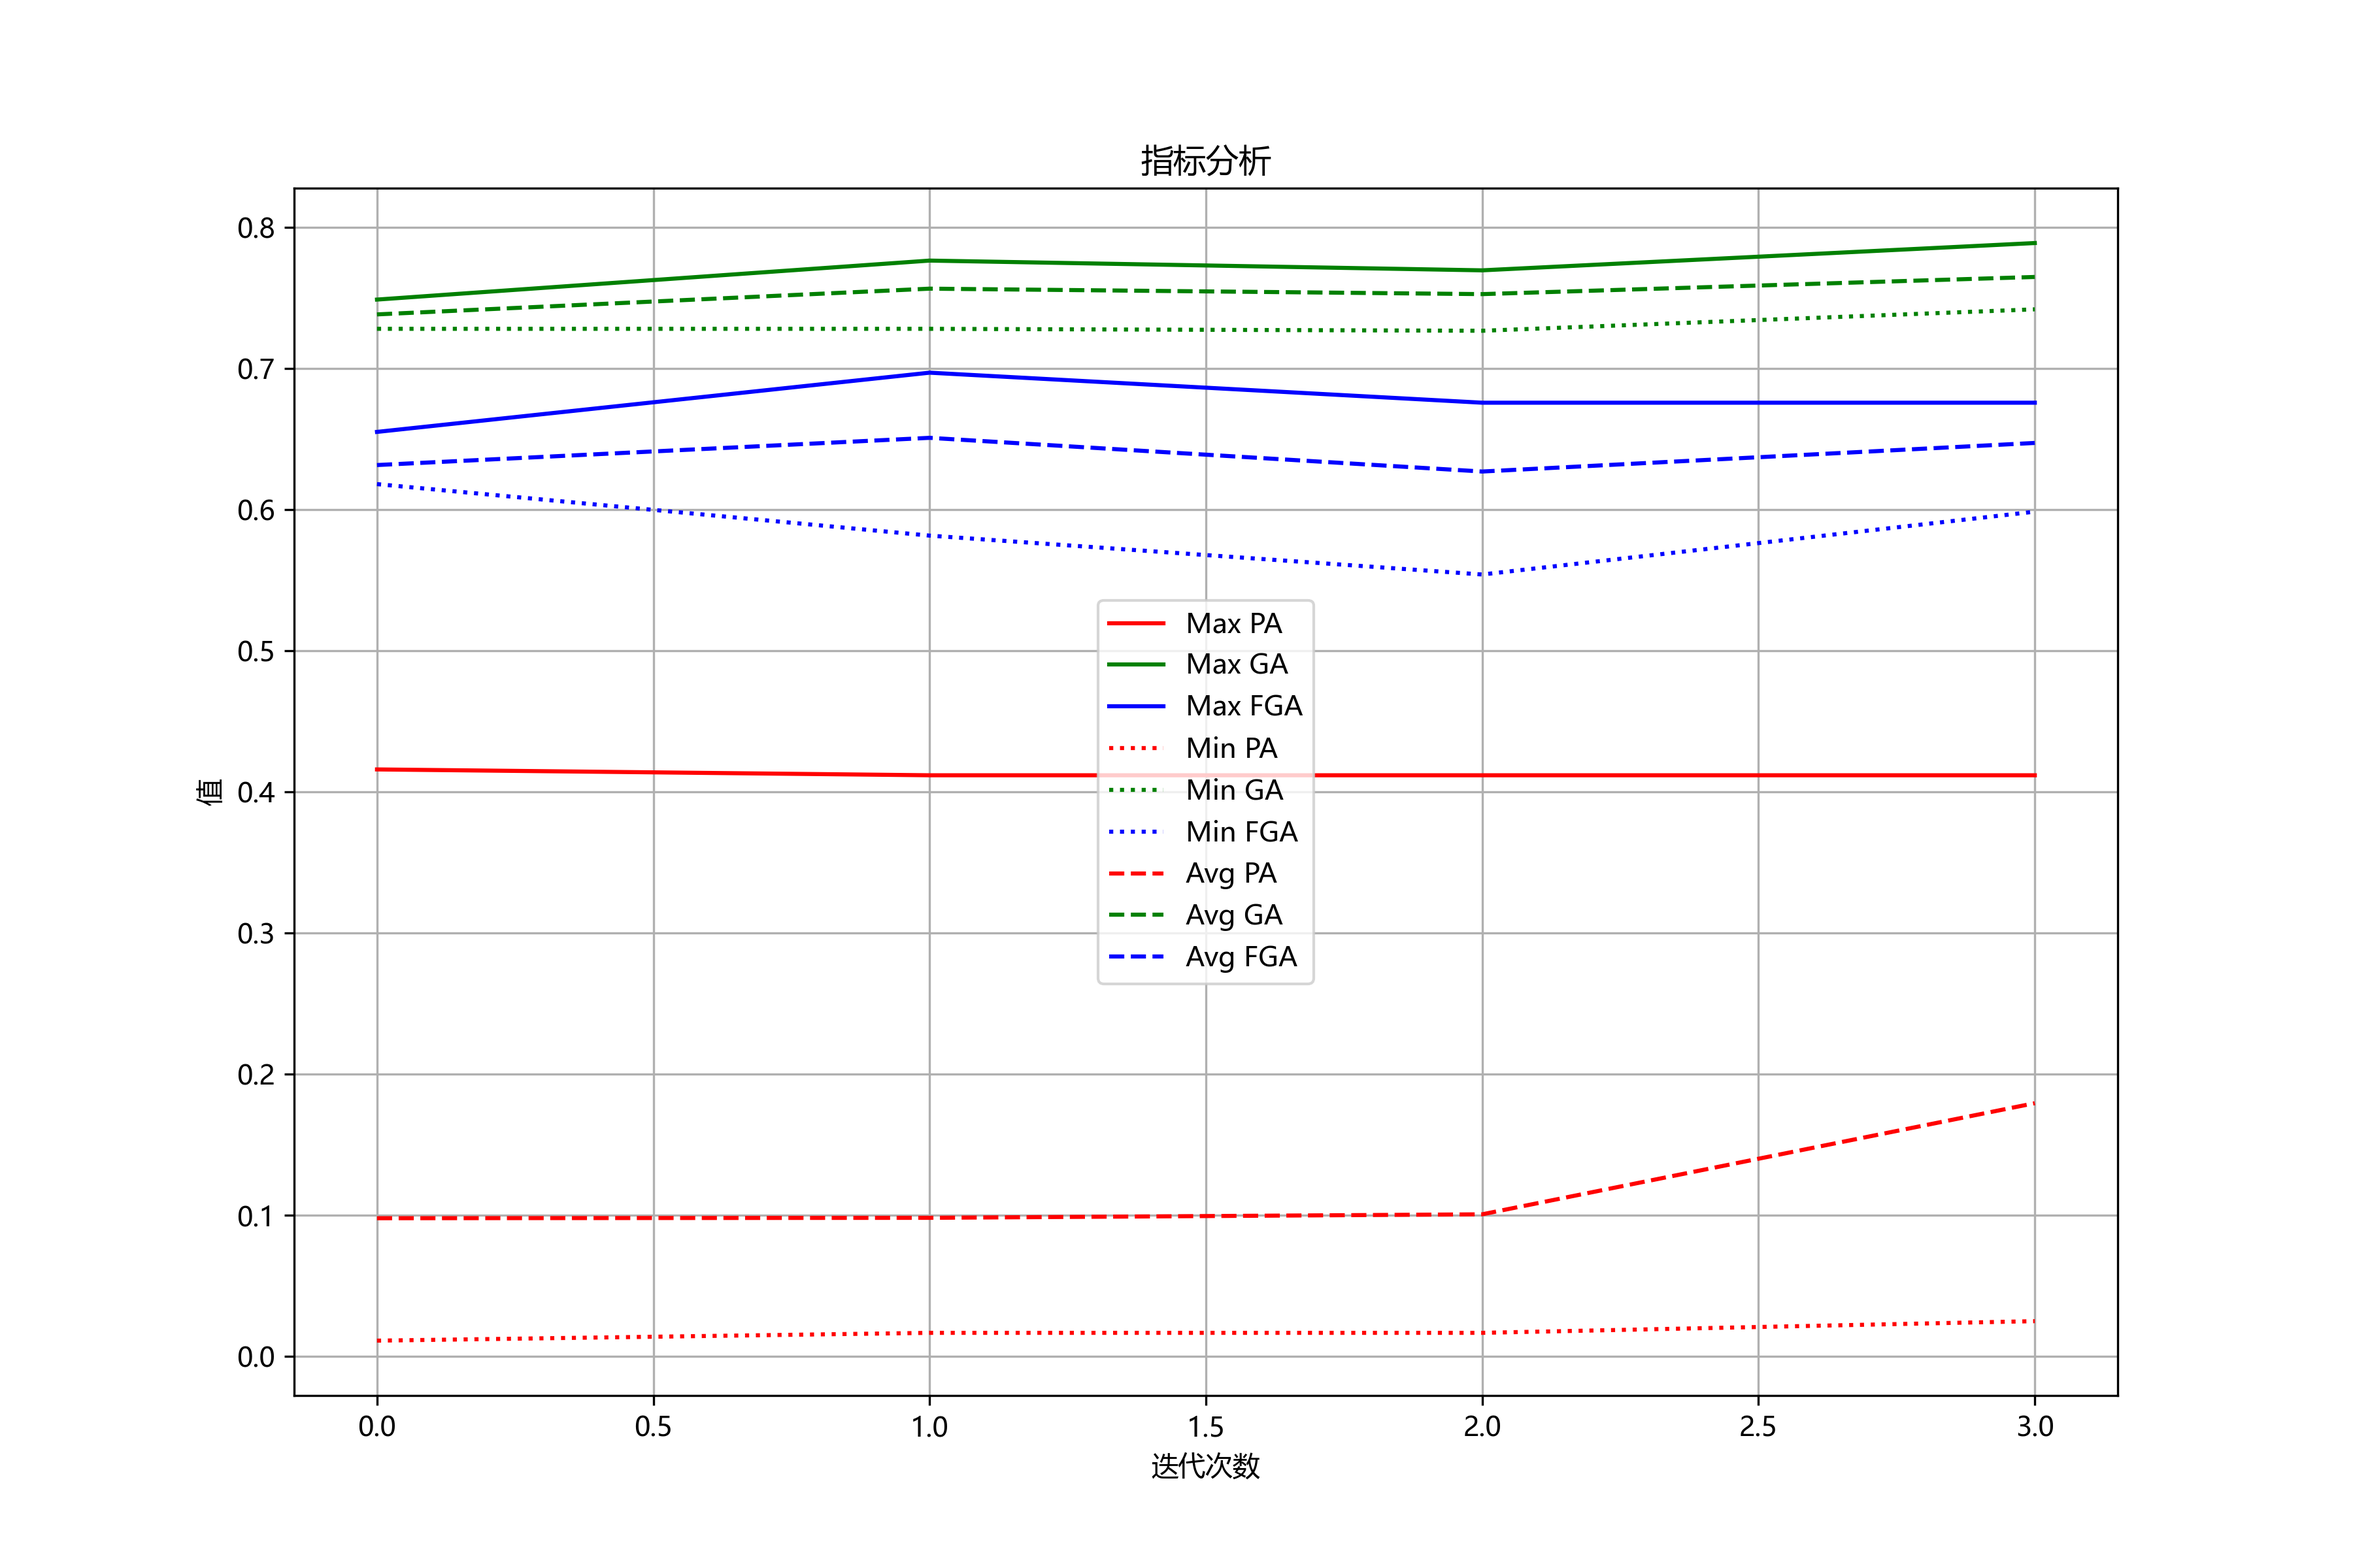
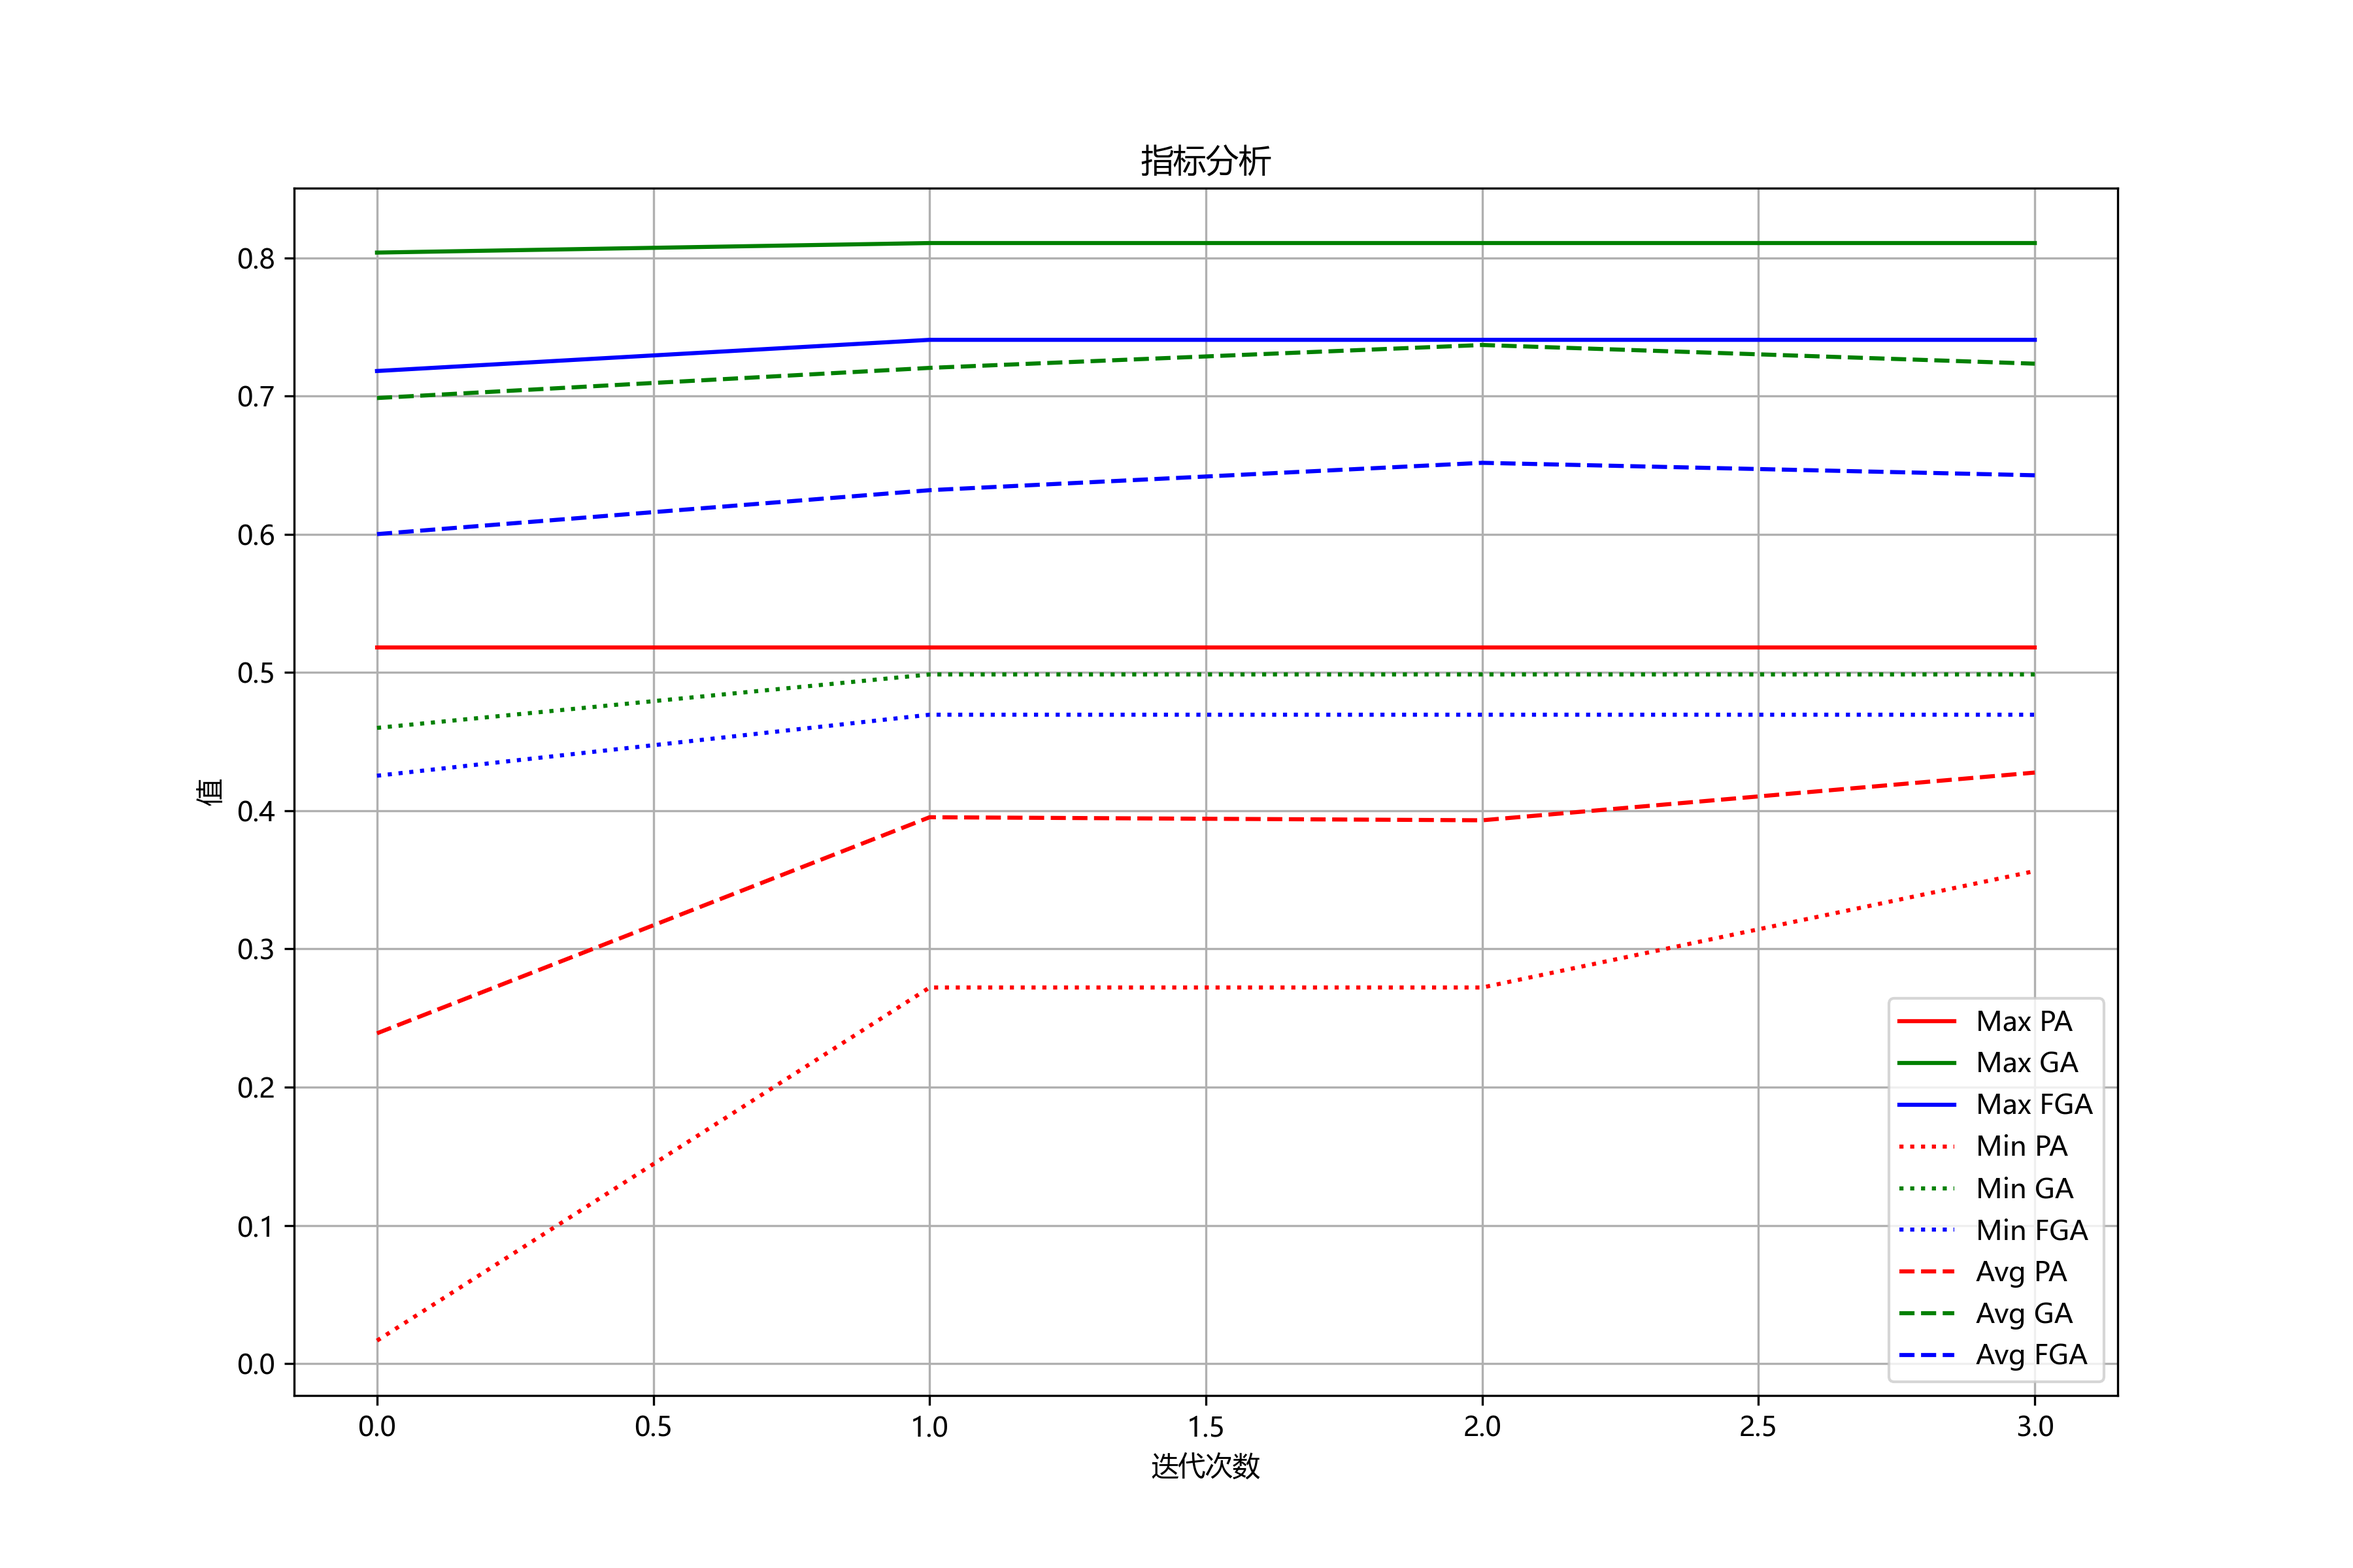
opro结果

diff --git a/src/LogModule/AutoPrompt/promptBranch/SamanticPrompts.py b/src/LogModule/AutoPrompt/promptBranch/SamanticPrompts.py
@@ -7,18 +7,26 @@ from src.LogModule.AutoPrompt.promptBranch.wrongReason import batchProcess
 from src.evaluation.accuracy import correct_lstm
 
 
-def TaskSamanticPrompts(prompt, wrong_reason):
+def TaskSamanticPrompts(prompt, wrong_reason, topK_dict):
+    precise_text = ("Here's some precise of the prompt below,"
+                    "You can refer to them to generate more accurate prompt words.\n")
+    for key, value in topK_dict.items():
+        precise_text += f"Precision:{value[2]} <TEXT>{key}</TEXT>\n"
     prompt1 = f"According to the following prompt, prompts are generated while maintaining the same semantics" \
               f"The prompt is {prompt}" \
+              f"{precise_text}" \
               f"The generated prompts without any superfluous output"
 
     prompt2 = (f"There is currently a prompt word for log parsing, "
                f"The prompt word is <START>{prompt}<END>,"
                f"but the prompt word is currently not effective enough. "
+               f"{precise_text}"
                f"Please update the prompts and modify with out any superfluous output")
 
     prompt3 = (f"This is a log parse Task, and our task is Ineffective"
-               f"Based on the prompt word <START>{prompt}<END>, generate a new prompt word with the same semantics")
+               f"Based on the prompt word <START>{prompt}<END>, "
+               f"{precise_text}"
+               f"generate a new prompt word with the same semantics")
     prompts = [prompt1, prompt2, prompt3]
     for prompt in prompts:
         list_temp = []
@@ -27,14 +35,14 @@ def TaskSamanticPrompts(prompt, wrong_reason):
         return list_temp
 
 
-def generate_samantic_prompts(prompts, result):
+def generate_samantic_prompts(prompts, result, topK_dict):
     semantic_prompts = prompts[:]
     futures = []
     with concurrent.futures.ThreadPoolExecutor(max_workers=load_config("ThreadNum")) as executor:
         # 对于每个提示，使用submit方法提交处理任务
         for prompt in prompts:
             wrongReason = warp_wrongReason(result, prompt)
-            future = executor.submit(TaskSamanticPrompts, prompt, wrongReason)
+            future = executor.submit(TaskSamanticPrompts, prompt, wrongReason, topK_dict)
             futures.append(future)
         concurrent.futures.wait(futures)
         # 等待所有Future对象完成，并收集结果

diff --git a/src/LogModule/AutoPrompt/Autoprompt.py b/src/LogModule/AutoPrompt/Autoprompt.py
@@ -31,7 +31,7 @@ def auto_prompt():
 
     train_contents, train_templates = get_train_log("Hadoop")
     test_contents, test_templates = get_test_log("Hadoop")
-    cur_prompts = init_prompt(5)
+    cur_prompts = init_prompt(10)
     # 第一轮次
     # 由gpt生成的提示词来抽取模版
     results = extract_log_template(train_contents, train_templates, cur_prompts)
@@ -41,7 +41,7 @@ def auto_prompt():
     train_accuracy_asset.append(topK_prompt)
     test_accuracy_asset.append(calculate_accuracy_test(test_contents, test_templates, topK_prompt_list))
     print("第1轮挑选的提示词以及其精度:", topK_prompt)
-    samantic_prompts = generate_samantic_prompts(topK_prompt_list, results)
+    samantic_prompts = generate_samantic_prompts(topK_prompt_list, results,topK_prompt)
     print("第1轮生成的同语义的提示词:", samantic_prompts)
 
     # 在n-1论测试集合
@@ -54,7 +54,7 @@ def auto_prompt():
         train_accuracy_asset.append(topK_prompt)
         test_accuracy_asset.append(calculate_accuracy_test(test_contents, test_templates, topK_prompt_list))
         print(f"第{i + 2}轮挑选的提示词以及其精度:", topK_prompt)
-        samantic_prompts = generate_samantic_prompts(topK_prompt_list, results)
+        samantic_prompts = generate_samantic_prompts(topK_prompt_list, results,topK_prompt)
         print(f"第{i + 2}轮生成的同语义的提示词:", samantic_prompts)
 
     end_time = time.time()
